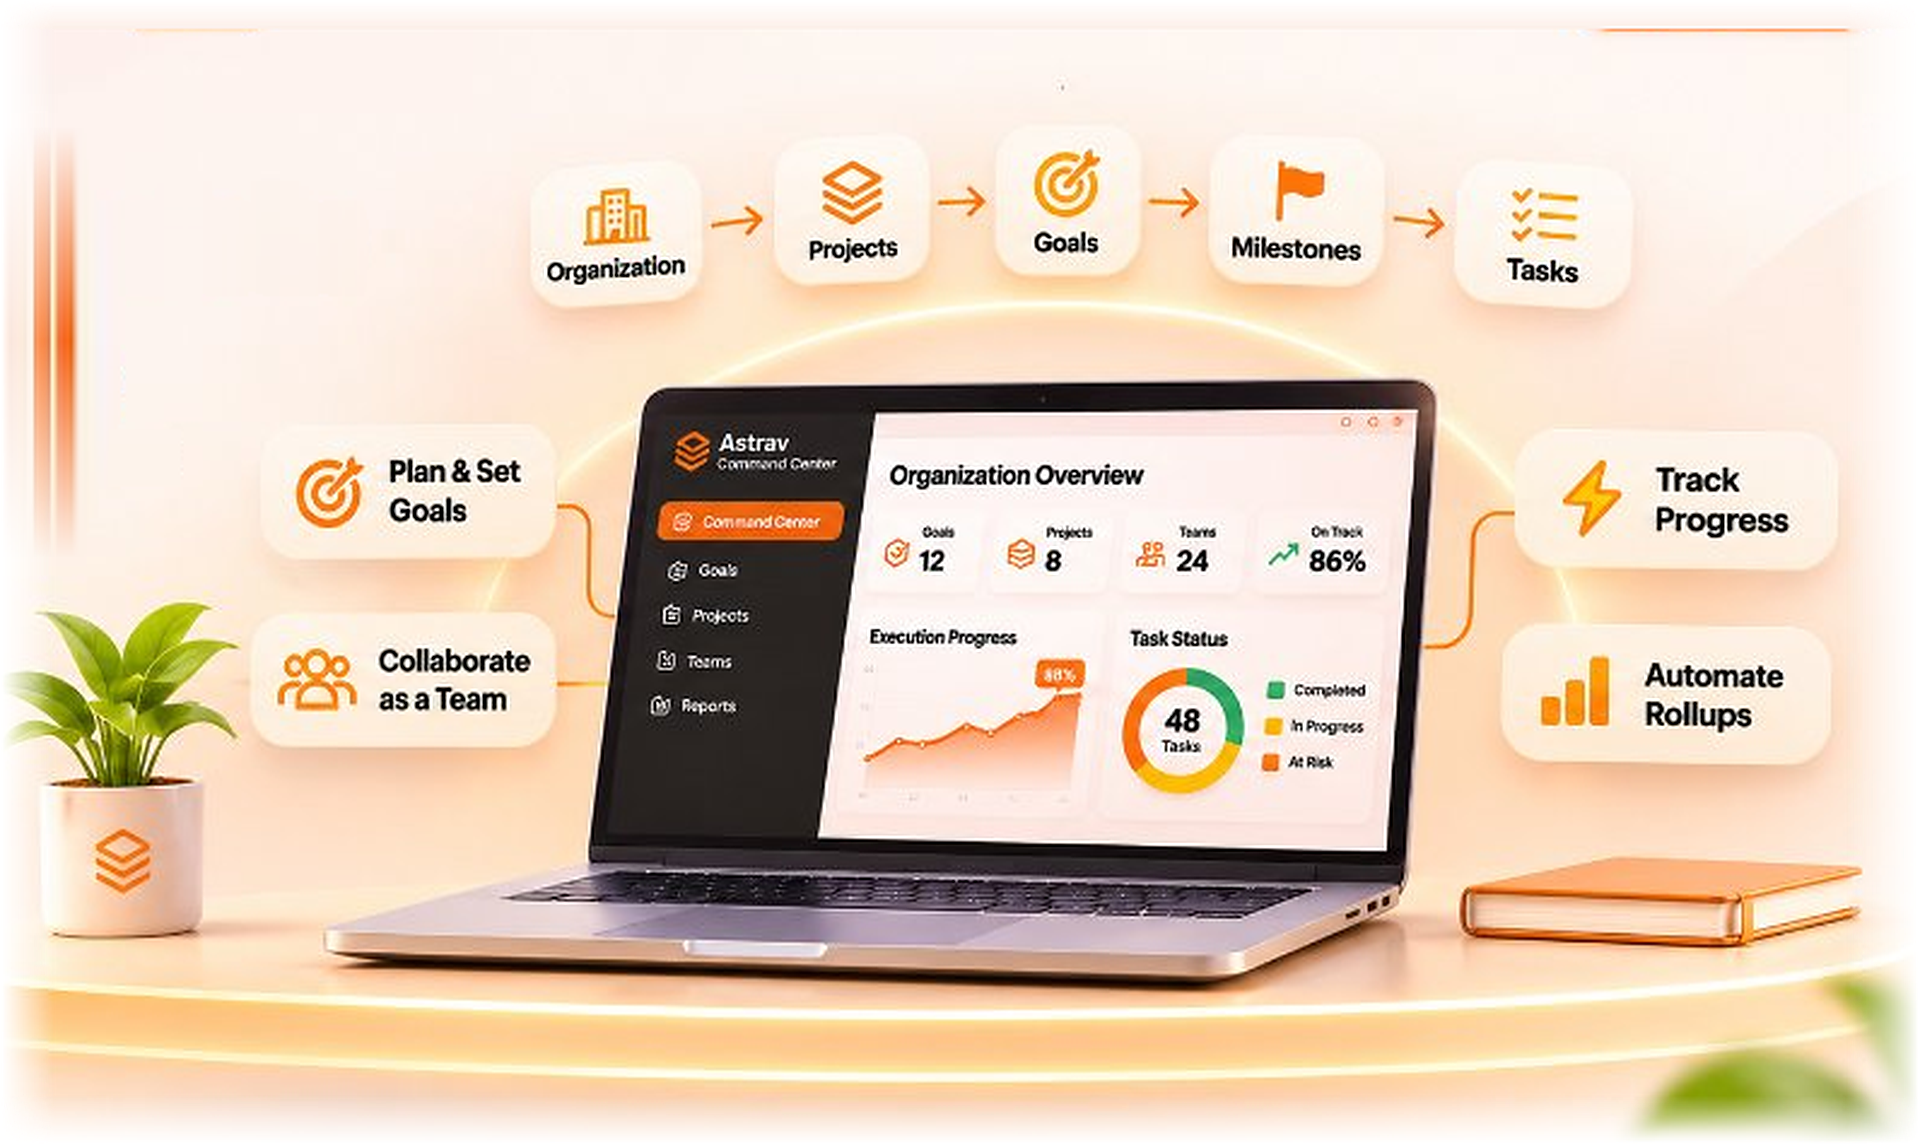
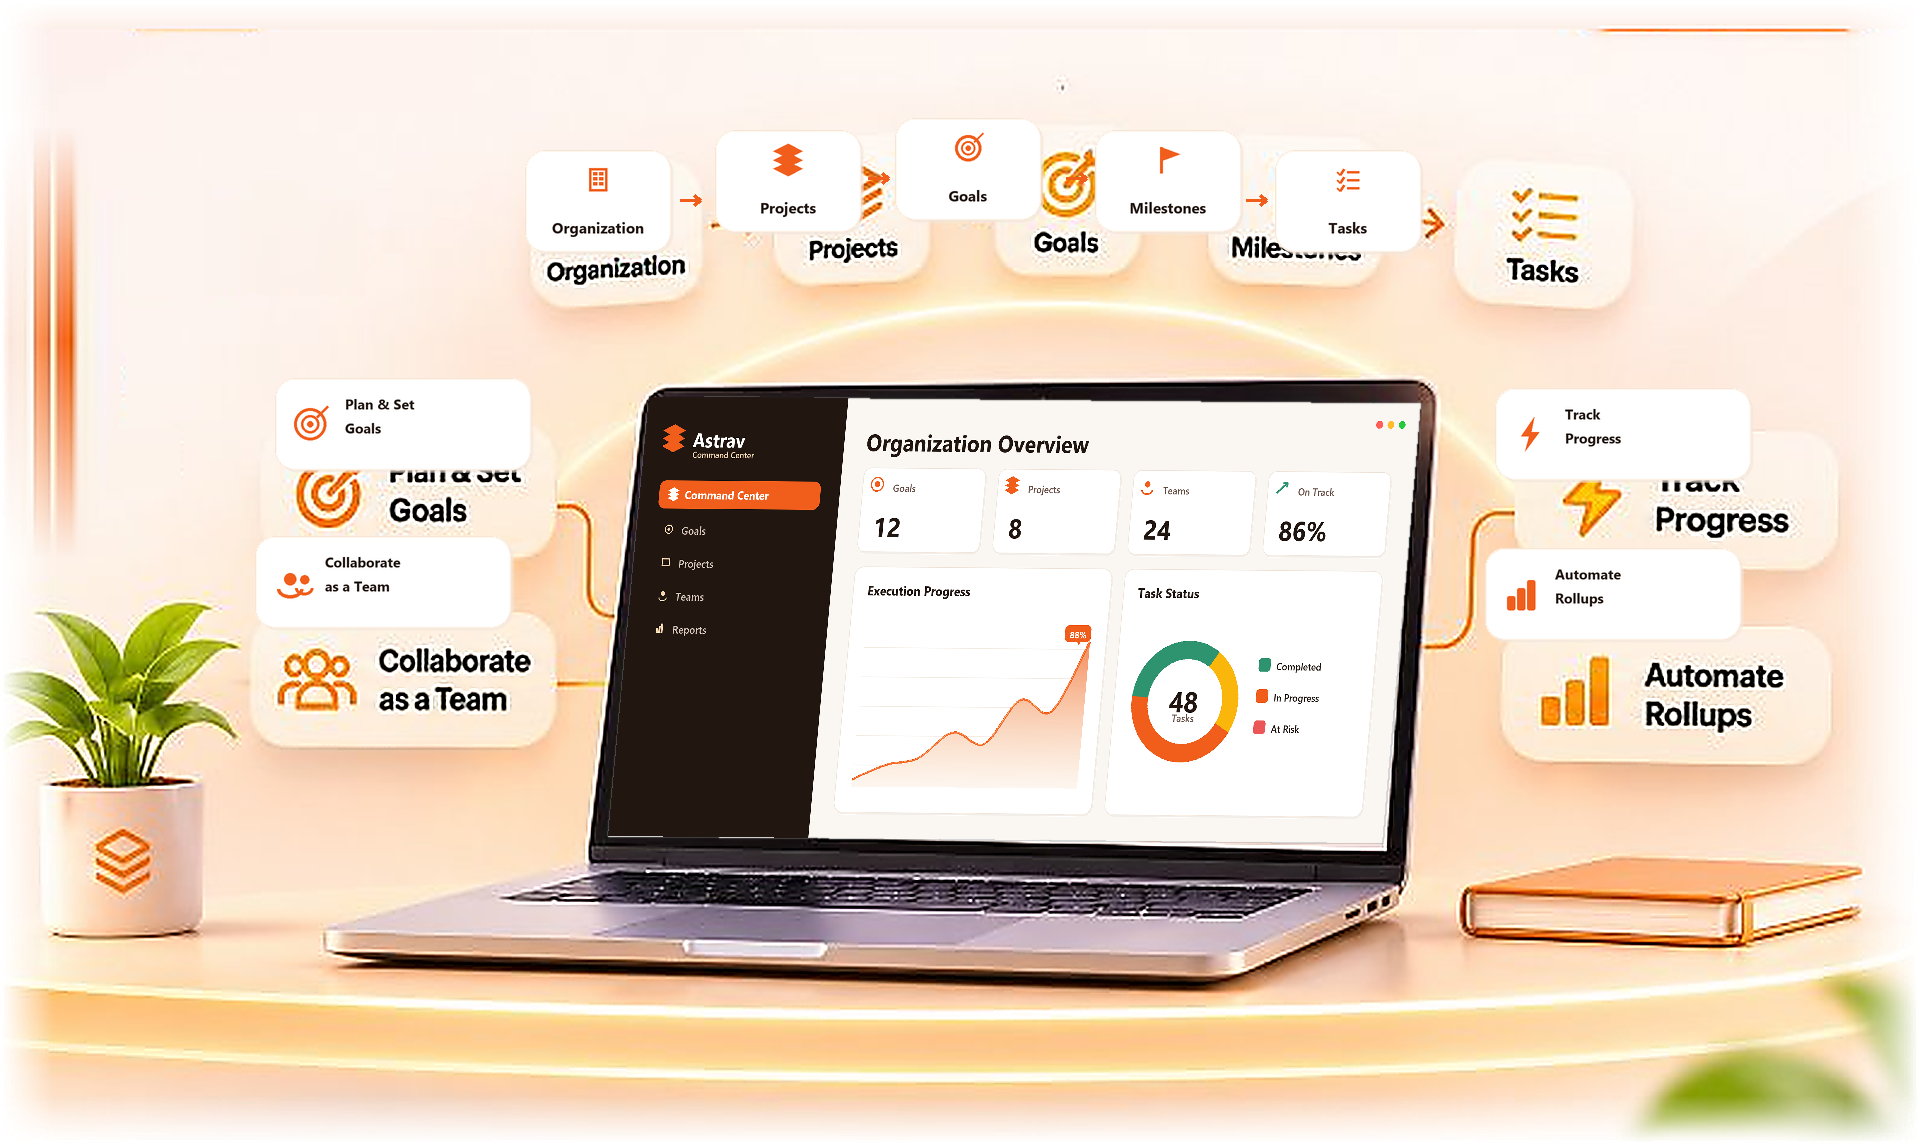
fix(assets): enhance hero image clarity at source level for rollups and command center across desktop and retina mobile

diff --git a/src/components/rollups/RollupHeroSection.tsx b/src/components/rollups/RollupHeroSection.tsx
@@ -147,12 +147,12 @@ export const RollupHeroSection: React.FC = () => {
             {/* Desktop & Tablet: landscape composition with natural edge blending */}
             <source
               media="(min-width: 640px)"
-              srcSet="/assets/astrav_automated_rollup_hero.webp"
+              srcSet="/assets/astrav_automated_rollup_hero.webp 1x, /assets/astrav_automated_rollup_hero.webp 2x"
               type="image/webp"
             />
-            {/* Mobile: dedicated high-clarity mobile visual with rounded corners */}
+            {/* Mobile: dedicated high-clarity retina mobile visual with rounded corners */}
             <source
-              srcSet="/assets/astrav_automated_rollup_mobile.webp"
+              srcSet="/assets/astrav_automated_rollup_mobile.webp 1x, /assets/astrav_automated_rollup_mobile.webp 2x"
               type="image/webp"
             />
             <img

diff --git a/src/components/product/ConnectedWorkflowSection.tsx b/src/components/product/ConnectedWorkflowSection.tsx
@@ -497,12 +497,12 @@ export const ConnectedWorkflowSection: React.FC = () => {
             {/* Desktop and Tablet: landscape Command Center composition */}
             <source
               media="(min-width: 640px)"
-              srcSet="/assets/astrav_command_center_hero.webp"
+              srcSet="/assets/astrav_command_center_hero.webp 1x, /assets/astrav_command_center_hero.webp 2x"
               type="image/webp"
             />
-            {/* Mobile: responsive mobile visual */}
+            {/* Mobile: responsive high-clarity retina mobile visual */}
             <source
-              srcSet="/assets/astrav_command_center_mobile.webp"
+              srcSet="/assets/astrav_command_center_mobile.webp 1x, /assets/astrav_command_center_mobile.webp 2x"
               type="image/webp"
             />
             <img

diff --git a/dist/index.html b/dist/index.html
@@ -85,7 +85,7 @@
       .bg-surface-ambient { background-color: #faf6f0; }
       .text-espresso { color: #271812; }
     </style>
-    <script type="module" crossorigin src="/assets/index-CCkgQDbr.js"></script>
+    <script type="module" crossorigin src="/assets/index-B3rLKvOE.js"></script>
     <link rel="modulepreload" crossorigin href="/assets/react-vendor-CYo093ba.js">
     <link rel="modulepreload" crossorigin href="/assets/icons-vendor-LF92p0sw.js">
     <link rel="modulepreload" crossorigin href="/assets/motion-vendor-BNvONvyL.js">

diff --git a/src/lib/routePreloader.ts b/src/lib/routePreloader.ts
@@ -206,3 +206,4 @@ export function setupGlobalLinkPreloader(): () => void {
     document.removeEventListener('focusin', handleInteraction);
   };
 }
+

diff --git a/src/components/common/RouteTransitionFallback.tsx b/src/components/common/RouteTransitionFallback.tsx
@@ -46,3 +46,4 @@ export const RouteTransitionFallback: React.FC = () => {
     </>
   );
 };
+
